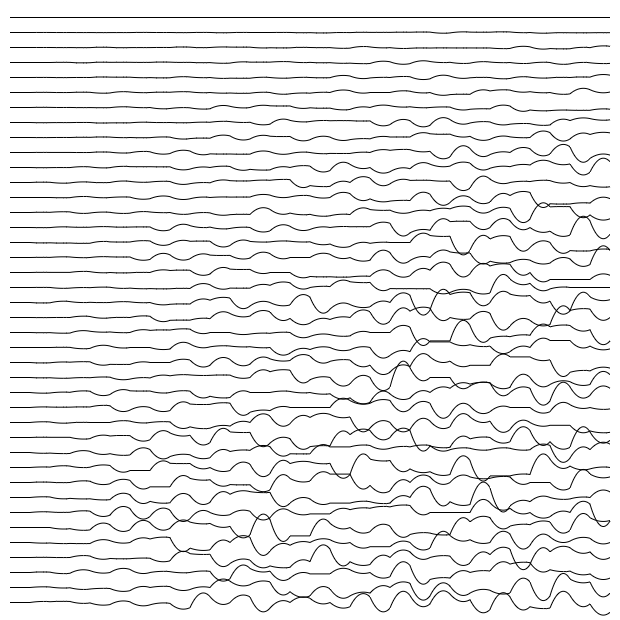
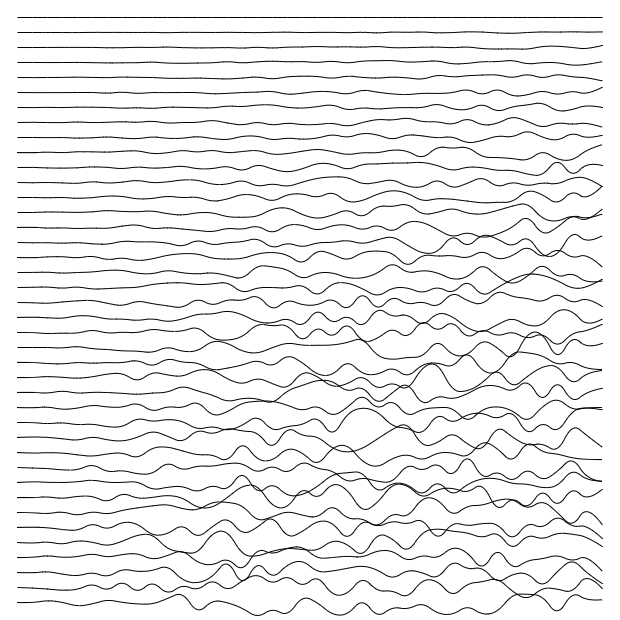
5: smoother curves

Changed region(s): [[0.0306, 0.0306, 0.9806, 1.0], [0.0613, 0.521, 0.0919, 0.5516]]

diff --git a/05-lines-displaced-curved/sketch.js b/05-lines-displaced-curved/sketch.js
@@ -7,7 +7,7 @@ const settings = {
 };
 
 const numRows = 40;
-const numCols = 30;
+const numCols = 40;
 
 const margin = 10;
 const sizeInner = size - 2 * margin;
@@ -28,29 +28,40 @@ const sketch = ({ canvas, context, width, height }) => {
     context.translate(margin, margin);
     context.strokeStyle = "black";
     for (let i = 0; i < numRows; i += 1) {
+      const points = [];
+      for (let j = 0; j < numCols; j += 1) {
+        points.push({
+          x: j * widthCell + widthCell / 2,
+          y:
+            heightCell / 2 +
+            (Math.random() < 0.5 ? -1 : 1) *
+              cap((i * j * 4) / (numRows * numCols), 1.4) *
+              Math.floor(Math.random() * heightCell * 0.8)
+        });
+      }
+
       context.save();
       context.translate(0, i * heightCell);
-      context.beginPath();
-      context.moveTo(0, heightCell / 2);
-      let yLast = heightCell / 2;
-      for (let j = 0; j < numCols; j += 1) {
-        const yNext =
-          heightCell / 2 +
-          (Math.random() < 0.5 ? -1 : 1) *
-            // cap to value >1 to allow overlap / crossing of lines
-            cap((i * j * 4) / (numRows * numCols), 1.4) *
-            Math.floor(Math.random() * (heightCell * 0.5));
 
-        const cp = {
-          x: widthCell / 2,
-          y: yLast + (yNext - yLast) * 2
-        };
-        context.quadraticCurveTo(cp.x, cp.y, widthCell, yNext);
-        yLast = yNext;
-        context.translate(widthCell, 0);
+      context.beginPath();
+      context.moveTo(points[0].x, points[0].y);
+      for (let j = 1; j < numCols - 2; j += 1) {
+        /*
+          use points as control points and midpoint as end points to generate smooth curve
+          https://stackoverflow.com/a/7058606
+        */
+        const xEnd = (points[j].x + points[j + 1].x) / 2;
+        const yEnd = (points[j].y + points[j + 1].y) / 2;
+        context.quadraticCurveTo(points[j].x, points[j].y, xEnd, yEnd);
       }
+      context.quadraticCurveTo(
+        points[numCols - 2].x,
+        points[numCols - 2].y,
+        points[numCols - 1].x,
+        points[numCols - 1].y
+      );
+
       context.stroke();
-      context.closePath();
       context.restore();
     }
     context.restore();
